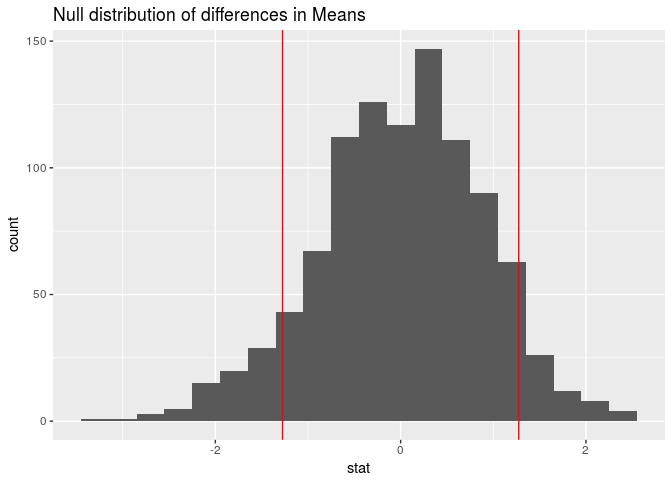
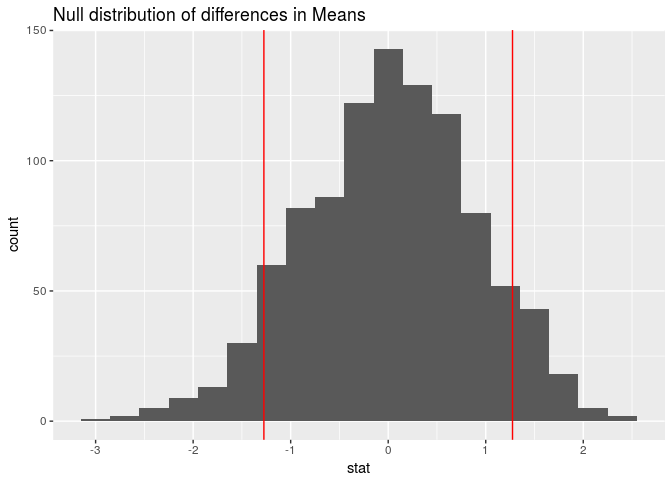
Added linear models

diff --git a/project/project.md b/project/project.md
@@ -41,12 +41,12 @@ The following tibble and lists the summary statistics for the total number of pa
     ## # A tibble: 1 x 8
     ##     max   min  mean median    sd    q1    q3   num
     ##   <dbl> <dbl> <dbl>  <int> <dbl> <dbl> <dbl> <int>
-    ## 1   36.    0.  4.41      2  5.81    1.  5.50   319
+    ## 1  36.0     0  4.41      2  5.81  1.00  5.50   319
 
     ## # A tibble: 1 x 8
     ##     max   min  mean median    sd    q1    q3   num
     ##   <dbl> <dbl> <dbl>  <int> <dbl> <dbl> <dbl> <int>
-    ## 1   25.    0.  3.22      2  4.53    1.    4.   317
+    ## 1  25.0     0  3.22      2  4.53  1.00  4.00   317
 
 The mean number of total partners is greater than the mean number of partners since coming to college, yet the median number of partners stays the same, at two. This is an interesting observation, as we expected the median to increase as well. This may indicate that those who are already having sex continue to have new partners in college, and those who didn't have sex in high school are continuing to abstain from sex.
 
@@ -80,15 +80,15 @@ Next, we wanted to see if choice of major and number of sexual partners are at a
     ## # A tibble: 9 x 9
     ##   major_one                 max   min  mean median    sd    q1    q3   num
     ##   <chr>                   <dbl> <dbl> <dbl>  <dbl> <dbl> <dbl> <dbl> <int>
-    ## 1 Economics                 25.    0.  5.93     4.  6.45 1.00   8.25    28
-    ## 2 Biology                   36.    0.  5.91     2.  8.28 1.00   9.00    35
-    ## 3 Public Policy Studies     15.    0.  5.25     5.  4.23 1.75   8.00    28
-    ## 4 Neuroscience              25.    0.  4.95     3.  6.23 1.00   7.00    21
-    ## 5 Computer Science          34.    0.  4.46     2.  7.10 1.00   5.00    41
-    ## 6 Electrical & Computer …   17.    0.  4.35     2.  4.97 1.00   7.25    20
-    ## 7 Psychology                14.    0.  3.46     1.  4.41 1.00   6.00    13
-    ## 8 Mechanical Engineering    15.    0.  3.38     2.  4.17 1.00   4.00    13
-    ## 9 Biomedical Engineering    10.    0.  2.81     1.  3.10 0.750  4.25    16
+    ## 1 Economics                25.0     0  5.93   4.00  6.45 1.00   8.25    28
+    ## 2 Biology                  36.0     0  5.91   2.00  8.28 1.00   9.00    35
+    ## 3 Public Policy Studies    15.0     0  5.25   5.00  4.23 1.75   8.00    28
+    ## 4 Neuroscience             25.0     0  4.95   3.00  6.23 1.00   7.00    21
+    ## 5 Computer Science         34.0     0  4.46   2.00  7.10 1.00   5.00    41
+    ## 6 Electrical & Computer …  17.0     0  4.35   2.00  4.97 1.00   7.25    20
+    ## 7 Psychology               14.0     0  3.46   1.00  4.41 1.00   6.00    13
+    ## 8 Mechanical Engineering   15.0     0  3.38   2.00  4.17 1.00   4.00    13
+    ## 9 Biomedical Engineering   10.0     0  2.81   1.00  3.10 0.750  4.25    16
 
 ![](project_files/figure-markdown_github/by-major-plots-1.png)
 
@@ -101,8 +101,8 @@ We first categorized respondents into either Trinity or Pratt based on their maj
     ## # A tibble: 2 x 9
     ##   school    max   min  mean median    sd    q1    q3   num
     ##   <chr>   <dbl> <dbl> <dbl>  <dbl> <dbl> <dbl> <dbl> <int>
-    ## 1 Pratt     17.    0.  3.55     2.  4.05    1.  4.50    55
-    ## 2 Trinity   36.    0.  4.82     2.  6.27    1.  6.00   244
+    ## 1 Pratt    17.0     0  3.55   2.00  4.05  1.00  4.50    55
+    ## 2 Trinity  36.0     0  4.82   2.00  6.27  1.00  6.00   244
 
 It appears that the mean number of sexual partners for Trinity students is 4.82, higher than the mean number of sexual partners for Pratt students, at 3.55. But is this difference statistically significant? We performed an independence test to find the answer.
 
@@ -111,7 +111,7 @@ It appears that the mean number of sexual partners for Trinity students is 4.82,
     ## # A tibble: 1 x 1
     ##   p_value
     ##     <dbl>
-    ## 1   0.118
+    ## 1   0.158
 
 Observed Difference = `1.274227`
 
@@ -120,12 +120,67 @@ Since the p value is greater than our significance level of .05, we can conclude
     ## # A tibble: 4 x 9
     ##   year        max   min  mean median    sd    q1    q3   num
     ##   <chr>     <dbl> <dbl> <dbl>  <dbl> <dbl> <dbl> <dbl> <int>
-    ## 1 Freshman    24.    0.  2.78     1.  4.35    0.  3.25    68
-    ## 2 Sophomore   34.    0.  4.47     2.  5.74    1.  5.00   118
-    ## 3 Junior      24.    0.  4.55     2.  4.87    1.  6.00    66
-    ## 4 Senior      36.    0.  5.92     3.  7.66    1.  8.00    64
+    ## 1 Freshman   24.0     0  2.78   1.00  4.35  0     3.25    68
+    ## 2 Sophomore  34.0     0  4.47   2.00  5.74  1.00  5.00   118
+    ## 3 Junior     24.0     0  4.55   2.00  4.87  1.00  6.00    66
+    ## 4 Senior     36.0     0  5.92   3.00  7.66  1.00  8.00    64
 
 ![](project_files/figure-markdown_github/by-year-1.png)
+
+##### Linear Model
+
+After looking at these different factors and considering which have real correlations with numbers of sexual partners, a natural place to go next was to try to create a linear model which would predict number of sexual partners based on a number of factors.
+
+We created two linear models, one using forward- and one using backward-selection for adjusted R^2 value. The backward-selection model modelled *partners* using the variables *religion*, *year*, *age*, *gender*, *athlete*, *greek*, *politics*, and *relationship*. The forward-selection model, which is shown below, modelled *partners* using the variables *religion*, *greek*, *athlete*, and *politics*, and its adjusted R^2 value was the higher of the two, at `0.2147764`, compared to the `0.1728393` of the backwards-selection model.
+
+    ## 
+    ## Call:
+    ## lm(formula = partners ~ religion + greek + athlete + politics, 
+    ##     data = sex_survey)
+    ## 
+    ## Coefficients:
+    ##                           (Intercept)  
+    ##                                8.3296  
+    ##                  religionChristianity  
+    ##                               -7.6823  
+    ##     religionChristianity and Buddhism  
+    ##                               -8.3296  
+    ##                      religionHinduism  
+    ##                               -9.4628  
+    ##                         religionIslam  
+    ##                               -5.8311  
+    ##                       religionJudaism  
+    ##                               -5.4114  
+    ##                         religionOther  
+    ##                                2.4605  
+    ##                              greekYes  
+    ##                                3.4255  
+    ##                            athleteYes  
+    ##                                3.6021  
+    ##      politicsNeither,Somewhat Liberal  
+    ##                               -0.6473  
+    ##         politicsSomewhat Conservative  
+    ##                                3.0588  
+    ##              politicsSomewhat Liberal  
+    ##                                0.6704  
+    ## politicsSomewhat Liberal,Very Liberal  
+    ##                                5.9272  
+    ##             politicsVery Conservative  
+    ##                               -1.1225  
+    ##                  politicsVery Liberal  
+    ##                                1.2099
+
+###### Forwards-selection model adjusted R^2
+
+    ## [1] 0.2147764
+
+###### Backwards-selection model adjusted R^2
+
+    ## [1] 0.1728393
+
+This model is an interesting one. It includes *religion* and *politics*, two variables which in American conversation are usually seen as factors in people's sexual practices (religions having tenets condoning certain practices, and different political groups having different beliefs on social issues like sexual activity). It also includes two variables in the Duke community which are seen as factors in a person's level of sexual activity, *greek* and *athlete*, with both groups being stereotyped as having higher levels of sexual activity. Interestingly enough, however, it doesn't include *year* or *age*, indicating that perhaps people aren't having sex with a significant number of people throughout their college years. The model also doesn't include the *relationship* variable or the *major\_one* variable, though that is perhaps unsurprising.
+
+It is important, however, to take this model with a grain of salt because the adjusted R^2 is only `0.2147764`, which is rather small to make any judgements with.
 
 Conclusion
 ----------
